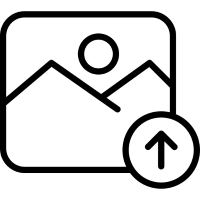
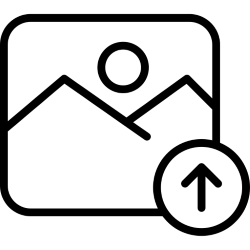
photo

diff --git a/src/Gui/Items/jViewItem.java b/src/Gui/Items/jViewItem.java
@@ -402,7 +402,7 @@ public class jViewItem extends javax.swing.JPanel {
         jUpdatedSuccessfuly.setFont(new java.awt.Font("Calibri", 0, 24)); // NOI18N
         jUpdatedSuccessfuly.setForeground(new java.awt.Color(0, 255, 100));
 
-        jPic.setIcon(new javax.swing.ImageIcon(getClass().getResource("/Gui/Items/photo3.png"))); // NOI18N
+        jPic.setIcon(new javax.swing.ImageIcon(getClass().getResource("/Gui/Items/photo2.png"))); // NOI18N
 
         jUpload.setBackground(new java.awt.Color(217, 156, 69));
         jUpload.setFont(new java.awt.Font("Calibri", 1, 18)); // NOI18N
@@ -431,37 +431,38 @@ public class jViewItem extends javax.swing.JPanel {
                     .addGroup(jPanel1Layout.createSequentialGroup()
                         .addComponent(jUpdatedSuccessfuly, javax.swing.GroupLayout.PREFERRED_SIZE, 488, javax.swing.GroupLayout.PREFERRED_SIZE)
                         .addContainerGap(javax.swing.GroupLayout.DEFAULT_SIZE, Short.MAX_VALUE))
-                    .addGroup(javax.swing.GroupLayout.Alignment.TRAILING, jPanel1Layout.createSequentialGroup()
-                        .addGap(0, 0, Short.MAX_VALUE)
-                        .addGroup(jPanel1Layout.createParallelGroup(javax.swing.GroupLayout.Alignment.LEADING)
-                            .addComponent(jLabel6, javax.swing.GroupLayout.PREFERRED_SIZE, 150, javax.swing.GroupLayout.PREFERRED_SIZE)
-                            .addGroup(jPanel1Layout.createSequentialGroup()
-                                .addGroup(jPanel1Layout.createParallelGroup(javax.swing.GroupLayout.Alignment.LEADING)
-                                    .addComponent(jLabel2, javax.swing.GroupLayout.PREFERRED_SIZE, 150, javax.swing.GroupLayout.PREFERRED_SIZE)
-                                    .addComponent(jLabel5, javax.swing.GroupLayout.PREFERRED_SIZE, 150, javax.swing.GroupLayout.PREFERRED_SIZE)
-                                    .addComponent(jLabel4, javax.swing.GroupLayout.PREFERRED_SIZE, 150, javax.swing.GroupLayout.PREFERRED_SIZE)
-                                    .addComponent(jLabel1, javax.swing.GroupLayout.PREFERRED_SIZE, 150, javax.swing.GroupLayout.PREFERRED_SIZE)
-                                    .addComponent(jLabel3, javax.swing.GroupLayout.PREFERRED_SIZE, 150, javax.swing.GroupLayout.PREFERRED_SIZE))
-                                .addGap(0, 0, 0)
-                                .addGroup(jPanel1Layout.createParallelGroup(javax.swing.GroupLayout.Alignment.TRAILING, false)
-                                    .addComponent(jCreatedAt, javax.swing.GroupLayout.Alignment.LEADING, javax.swing.GroupLayout.PREFERRED_SIZE, 250, javax.swing.GroupLayout.PREFERRED_SIZE)
-                                    .addComponent(jPriceField, javax.swing.GroupLayout.Alignment.LEADING, javax.swing.GroupLayout.PREFERRED_SIZE, 250, javax.swing.GroupLayout.PREFERRED_SIZE)
-                                    .addComponent(jDescriptionField, javax.swing.GroupLayout.Alignment.LEADING, javax.swing.GroupLayout.PREFERRED_SIZE, 250, javax.swing.GroupLayout.PREFERRED_SIZE)
-                                    .addComponent(jNameField, javax.swing.GroupLayout.Alignment.LEADING, javax.swing.GroupLayout.PREFERRED_SIZE, 250, javax.swing.GroupLayout.PREFERRED_SIZE)
-                                    .addComponent(jCatgoryField, javax.swing.GroupLayout.PREFERRED_SIZE, 250, javax.swing.GroupLayout.PREFERRED_SIZE))))
-                        .addGap(50, 50, 50)
-                        .addGroup(jPanel1Layout.createParallelGroup(javax.swing.GroupLayout.Alignment.LEADING)
-                            .addComponent(jUpload, javax.swing.GroupLayout.PREFERRED_SIZE, 250, javax.swing.GroupLayout.PREFERRED_SIZE)
-                            .addComponent(jPic, javax.swing.GroupLayout.PREFERRED_SIZE, 250, javax.swing.GroupLayout.PREFERRED_SIZE))
-                        .addGap(50, 50, 50))
                     .addGroup(jPanel1Layout.createSequentialGroup()
-                        .addComponent(jBack, javax.swing.GroupLayout.PREFERRED_SIZE, 175, javax.swing.GroupLayout.PREFERRED_SIZE)
-                        .addGap(0, 0, 0)
-                        .addComponent(jCancel, javax.swing.GroupLayout.PREFERRED_SIZE, 175, javax.swing.GroupLayout.PREFERRED_SIZE)
-                        .addGap(0, 0, 0)
-                        .addComponent(jUpdate, javax.swing.GroupLayout.PREFERRED_SIZE, 175, javax.swing.GroupLayout.PREFERRED_SIZE)
-                        .addGap(0, 0, 0)
-                        .addComponent(jEdit, javax.swing.GroupLayout.PREFERRED_SIZE, 175, javax.swing.GroupLayout.PREFERRED_SIZE)
+                        .addGroup(jPanel1Layout.createParallelGroup(javax.swing.GroupLayout.Alignment.LEADING)
+                            .addGroup(javax.swing.GroupLayout.Alignment.TRAILING, jPanel1Layout.createSequentialGroup()
+                                .addGap(0, 0, Short.MAX_VALUE)
+                                .addGroup(jPanel1Layout.createParallelGroup(javax.swing.GroupLayout.Alignment.LEADING)
+                                    .addComponent(jLabel6, javax.swing.GroupLayout.PREFERRED_SIZE, 150, javax.swing.GroupLayout.PREFERRED_SIZE)
+                                    .addGroup(jPanel1Layout.createSequentialGroup()
+                                        .addGroup(jPanel1Layout.createParallelGroup(javax.swing.GroupLayout.Alignment.LEADING)
+                                            .addComponent(jLabel2, javax.swing.GroupLayout.PREFERRED_SIZE, 150, javax.swing.GroupLayout.PREFERRED_SIZE)
+                                            .addComponent(jLabel5, javax.swing.GroupLayout.PREFERRED_SIZE, 150, javax.swing.GroupLayout.PREFERRED_SIZE)
+                                            .addComponent(jLabel4, javax.swing.GroupLayout.PREFERRED_SIZE, 150, javax.swing.GroupLayout.PREFERRED_SIZE)
+                                            .addComponent(jLabel1, javax.swing.GroupLayout.PREFERRED_SIZE, 150, javax.swing.GroupLayout.PREFERRED_SIZE)
+                                            .addComponent(jLabel3, javax.swing.GroupLayout.PREFERRED_SIZE, 150, javax.swing.GroupLayout.PREFERRED_SIZE))
+                                        .addGap(0, 0, 0)
+                                        .addGroup(jPanel1Layout.createParallelGroup(javax.swing.GroupLayout.Alignment.TRAILING, false)
+                                            .addComponent(jCreatedAt, javax.swing.GroupLayout.Alignment.LEADING, javax.swing.GroupLayout.PREFERRED_SIZE, 250, javax.swing.GroupLayout.PREFERRED_SIZE)
+                                            .addComponent(jPriceField, javax.swing.GroupLayout.Alignment.LEADING, javax.swing.GroupLayout.PREFERRED_SIZE, 250, javax.swing.GroupLayout.PREFERRED_SIZE)
+                                            .addComponent(jDescriptionField, javax.swing.GroupLayout.Alignment.LEADING, javax.swing.GroupLayout.PREFERRED_SIZE, 250, javax.swing.GroupLayout.PREFERRED_SIZE)
+                                            .addComponent(jNameField, javax.swing.GroupLayout.Alignment.LEADING, javax.swing.GroupLayout.PREFERRED_SIZE, 250, javax.swing.GroupLayout.PREFERRED_SIZE)
+                                            .addComponent(jCatgoryField, javax.swing.GroupLayout.PREFERRED_SIZE, 250, javax.swing.GroupLayout.PREFERRED_SIZE))))
+                                .addGap(50, 50, 50)
+                                .addGroup(jPanel1Layout.createParallelGroup(javax.swing.GroupLayout.Alignment.LEADING)
+                                    .addComponent(jUpload, javax.swing.GroupLayout.PREFERRED_SIZE, 250, javax.swing.GroupLayout.PREFERRED_SIZE)
+                                    .addComponent(jPic, javax.swing.GroupLayout.PREFERRED_SIZE, 250, javax.swing.GroupLayout.PREFERRED_SIZE)))
+                            .addGroup(jPanel1Layout.createSequentialGroup()
+                                .addComponent(jBack, javax.swing.GroupLayout.PREFERRED_SIZE, 175, javax.swing.GroupLayout.PREFERRED_SIZE)
+                                .addGap(0, 0, 0)
+                                .addComponent(jCancel, javax.swing.GroupLayout.PREFERRED_SIZE, 175, javax.swing.GroupLayout.PREFERRED_SIZE)
+                                .addGap(0, 0, 0)
+                                .addComponent(jUpdate, javax.swing.GroupLayout.PREFERRED_SIZE, 175, javax.swing.GroupLayout.PREFERRED_SIZE)
+                                .addGap(0, 0, 0)
+                                .addComponent(jEdit, javax.swing.GroupLayout.PREFERRED_SIZE, 175, javax.swing.GroupLayout.PREFERRED_SIZE)))
                         .addGap(50, 50, 50))))
         );
         jPanel1Layout.setVerticalGroup(

diff --git a/src/Gui/Items/jNewItem.java b/src/Gui/Items/jNewItem.java
@@ -266,7 +266,7 @@ public class jNewItem extends javax.swing.JPanel {
             }
         });
 
-        jPic.setIcon(new javax.swing.ImageIcon(getClass().getResource("/Gui/Items/photo3.png"))); // NOI18N
+        jPic.setIcon(new javax.swing.ImageIcon(getClass().getResource("/Gui/Items/photo2.png"))); // NOI18N
 
         jUpload.setBackground(new java.awt.Color(217, 156, 69));
         jUpload.setFont(new java.awt.Font("Calibri", 1, 18)); // NOI18N

diff --git a/src/Gui/Items/jViewItems.java b/src/Gui/Items/jViewItems.java
@@ -433,7 +433,7 @@ public class jViewItems extends javax.swing.JPanel {
             _jNewItem.jNameField.grabFocus();
             BufferedImage img = null;
             try {
-                img = ImageIO.read(new File("Images/noImage.jpg"));
+                img = ImageIO.read(new File("Images/photo2.png"));
             } catch (IOException e) {
                 Logger.getLogger(jViewItem.class.getName()).log(Level.SEVERE, null, e);
             }

diff --git a/src/Gui/Logs/jViewLogs.java b/src/Gui/Logs/jViewLogs.java
@@ -23,7 +23,6 @@ public class jViewLogs extends javax.swing.JPanel {
     }
     public void changecolor(java.awt.Color c)
     { 
-        System.out.println(c);
         setBackground(c);
     }
     public void renderData() { 
